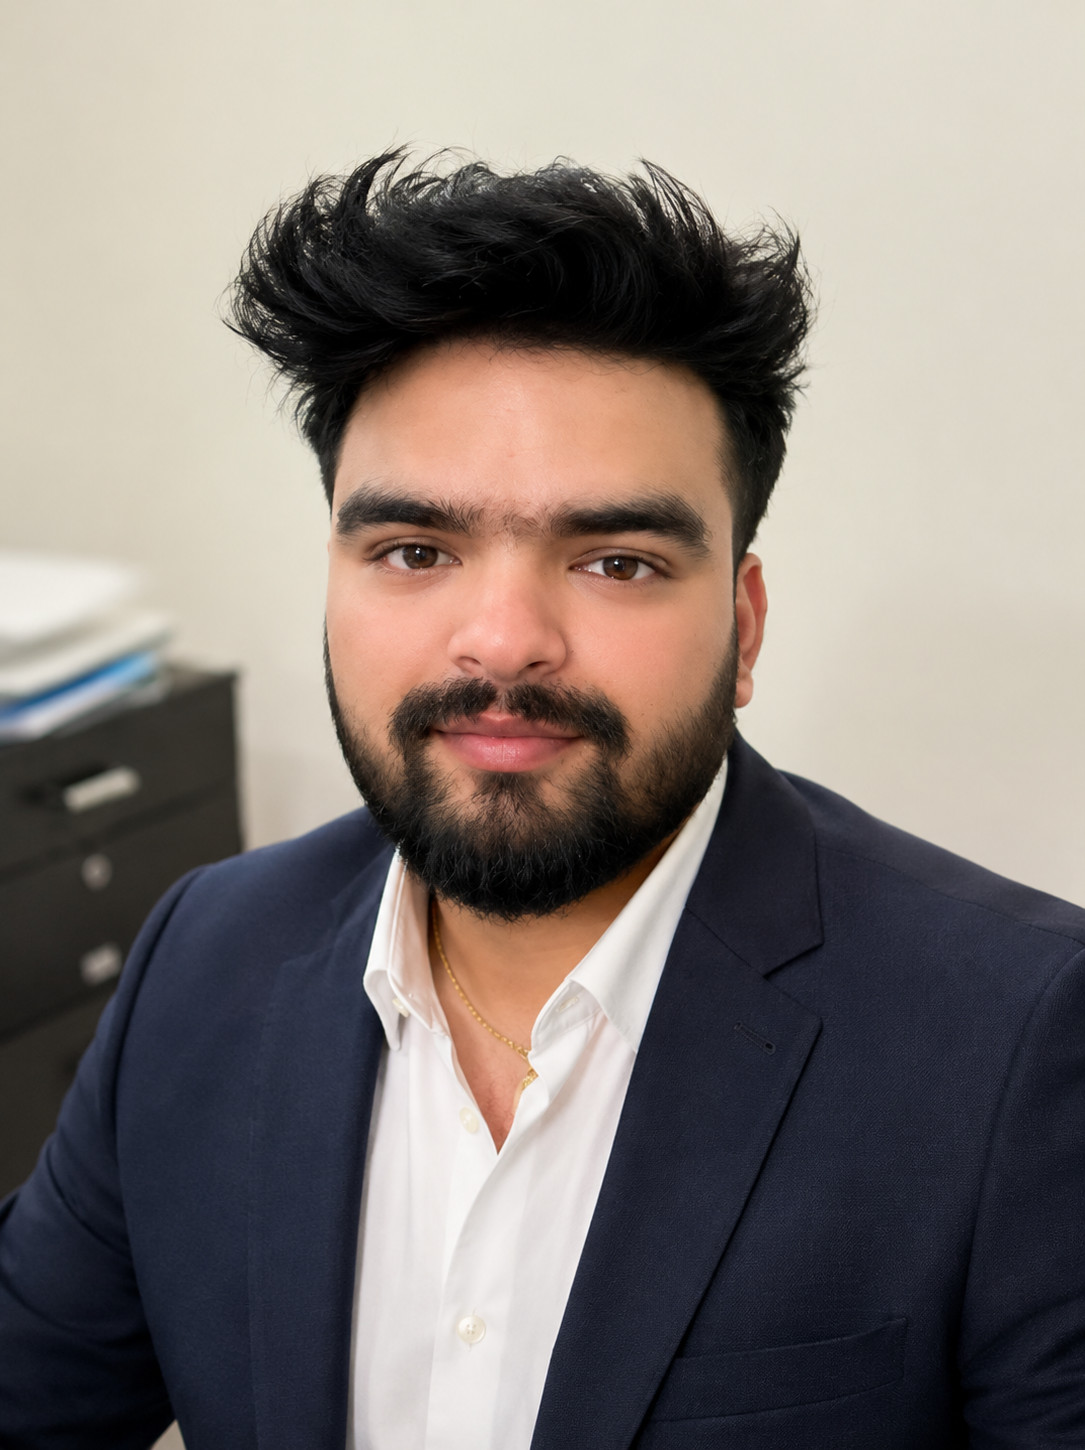
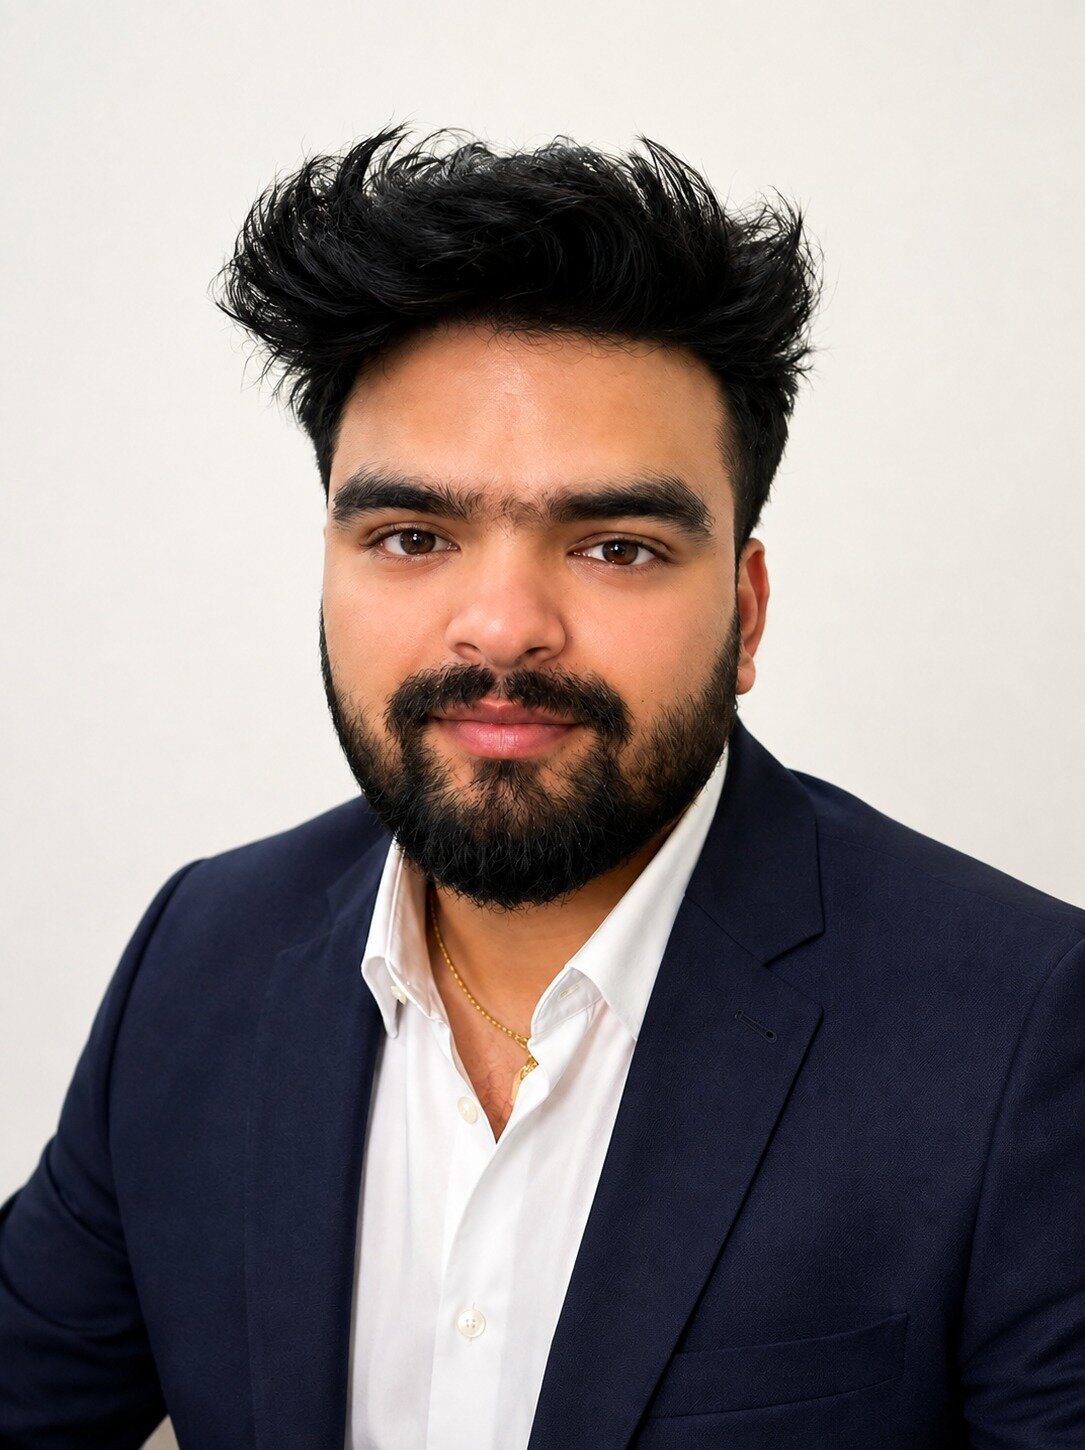
New photo for Harsh (team member 3)

diff --git a/artifacts/haerox/about.html b/artifacts/haerox/about.html
@@ -179,7 +179,7 @@
         <!-- Team Member 3 -->
         <div class="team-member fade-up delay-300">
           <div class="team-img-wrapper img-reveal">
-            <img src="images/about/team/member3.jpg?v=2" alt="Harsh - Sales Acquisition, Client Research & Relations" class="team-img">
+            <img src="images/about/team/member3.jpg?v=3" alt="Harsh - Sales Acquisition, Client Research & Relations" class="team-img">
           </div>
           <div class="team-info">
             <h4 class="team-name">Harsh</h4>
